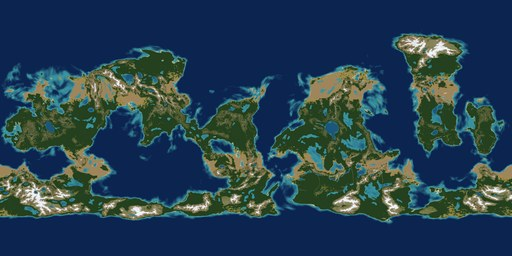
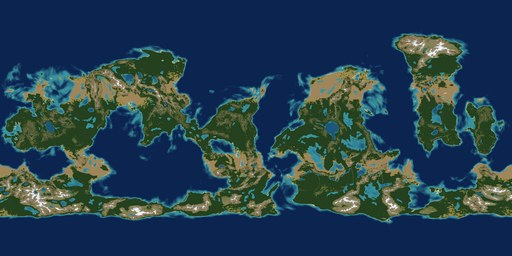
Haven: snow in larger patches with bare ribs on steep ground (its edge was level streaks on far mountain sides); maps made again
Not yet seen in the game: two views are rendering.

Claude-Session: https://claude.ai/code/session_01XG1DZ692FjkSqnhW4EMsP8

diff --git a/src/terrain/tiles/madeLand.js b/src/terrain/tiles/madeLand.js
@@ -80,8 +80,12 @@ export function landAt(L, h, slope, lat, rain, n1, n2, out, lake = false, depth 
   const strand = (1 - ss(2, 9, h)) * (1 - ss(0.1, 0.3, slope));
   r += (C.sand[0] - r) * strand; g += (C.sand[1] - g) * strand; b += (C.sand[2] - b) * strand;
   if (strand > 0.5) { cls = 16; closed = 0; tall = 0; }
-  // snow: on all but the steepest ground where it is cold enough, in patches at its edge
-  const snow = ss(L.snowLine + 2.5, L.snowLine - 1.5, tC + 1.2 * n2) * (1 - 0.75 * ss(0.8, 1.3, slope));
+  // snow: where it is cold enough, lower in some stretches of country than in others (some
+  // kilometres across), and off the steep ground, which stands out of it as ribs of rock.
+  // (Its edge was a band 650 m of height wide broken by fine noise: on a mountain side that
+  // is patches squeezed along the slope, level streaks like a wood's grain from a few
+  // kilometres off.)
+  const snow = ss(L.snowLine + 1.0, L.snowLine - 1.0, tC + 2.2 * n1 + 0.5 * n2 + 5.0 * ss(0.3, 0.85, slope));
   r += (C.snow[0] - r) * snow; g += (C.snow[1] - g) * snow; b += (C.snow[2] - b) * snow;
   if (snow > 0.5) { cls = 15; closed = 0; tall = 0; }
   // (a little of the patch noise in everything: no two hillsides one flat colour)

diff --git a/src/worlds/haven.js b/src/worlds/haven.js
@@ -64,7 +64,7 @@ export default {
     reliefMap: { url: 'data/haven_slopes_4096.jpg', strength: 2.0, latFade: [84, 89] },
     // Its colours from the air, made by the same rule as the mosaics round the traveller
     // (scripts/make-world-maps.mjs prints `mean`: the land's mean, in linear light).
-    albedoMap: { url: 'data/haven_day_4096.jpg', encoding: 'srgb', mean: [0.1377, 0.1357, 0.0657], strength: 1.0, chroma: 1.0, range: [0.2, 4.5], steep: 0.35 },
+    albedoMap: { url: 'data/haven_day_4096.jpg', encoding: 'srgb', mean: [0.1299, 0.1272, 0.0560], strength: 1.0, chroma: 1.0, range: [0.2, 4.5], steep: 0.35 },
     meanAlbedo: [0.14, 0.12, 0.07],
     dust: [0.19, 0.17, 0.115],         // dry soil, warm
     sand: [0.32, 0.27, 0.18],

diff --git a/docs/PROGRESS.md b/docs/PROGRESS.md
@@ -44,6 +44,13 @@ as you want or need. This is a big ask and I need it to work really well."*
   corrections sent (far trees no bluer than the ground behind them; far flower drifts
   tint, not paint). Found here meanwhile: the fine rock beds drew a wood grain over far
   mountain sides (now only on real cliffs).
+- **Done here meanwhile** (the owning session; each to be seen in a picture before it is
+  called done): the level streaks on far mountain sides were the snow's edge (a band
+  650 m of height wide broken by fine noise): the snow rule in `madeLand.js` now has
+  larger patches and bare ribs on steep ground, and the maps were made again (new
+  `albedoMap.mean`); rock beds only on real cliffs. **Seen in the colour map and not
+  fixed**: a few valleys are straight trenches with rock walls (the maker's valley floors
+  along flow lines that run in eight directions): for the water delivery.
 - **If the helpers cannot be reached or their work is not good enough**: the briefs are
   the plan; do them here, trees first.
 
